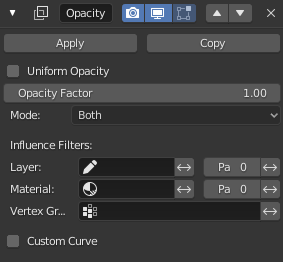
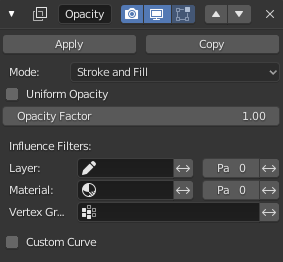
GPencil: Color Modifiers updates

diff --git a/manual/grease_pencil/modifiers/color/opacity.rst b/manual/grease_pencil/modifiers/color/opacity.rst
@@ -19,6 +19,12 @@ Options
 
    Opacity Modifier.
 
+Mode
+   The color transformation will be applied on the stroke/fill color or stroke Hardeness.
+   When Hardeness is selected the opacity affect the stroke transparency (alpha) from the center to the border.
+
+   Stroke and Fill, Stroke, Fill, Hardeness
+
 Uniform Opacity
    When enabled, makes the opacity equal for the entire strokes.
 
@@ -32,11 +38,6 @@ Opacity Factor
    and a shift greater than 1.0 make the points more opaque than originally.
 
    Sets value to 2.0 makes the points alpha fully opaque.
-
-Mode
-   The color transformation will be applied on the stroke and/or the fill color.
-
-   Stroke and Fill, Stroke, Fill
 
 
 Influence Filters
